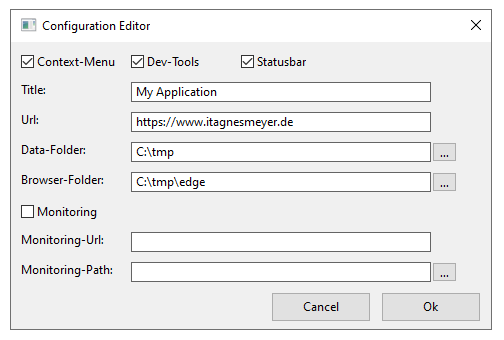
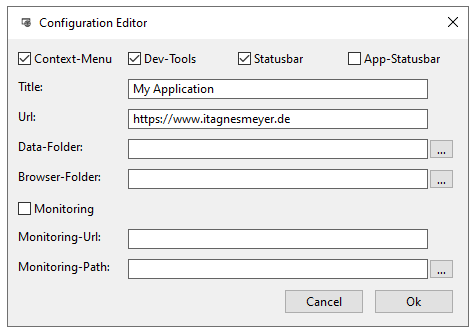
ReadMe

diff --git a/README.md b/README.md
@@ -30,11 +30,12 @@ The icon of the application is loaded from the directory of the application. The
 ## The Application creates a config-File.
 
 ```xml
-<BrowserOpetions xmlns:xsi="http://www.w3.org/2001/XMLSchema-instance" xmlns:xsd="http://www.w3.org/2001/XMLSchema">
+<BrowserOptions xmlns:xsi="http://www.w3.org/2001/XMLSchema-instance" xmlns:xsd="http://www.w3.org/2001/XMLSchema">
   <Monitoring>false</Monitoring>
-  <MointoringUrl>URL To MONITORING-Folder</MointoringUrl>
+  <MonitoringUrl>URL To MONITORING-Folder</MointoringUrl>
   <Title>My Application</Title>
   <StatusBar>true</StatusBar>
+  <AppStatusBar>false</AppStatusBar>
   <MonitoringPath></MonitoringPath>
   <Url>https://www.itagnesmeyer.de</Url>
   <BrowserUserDataFolder>Folder for User-Data WebView2</BrowserUserDataFolder>
